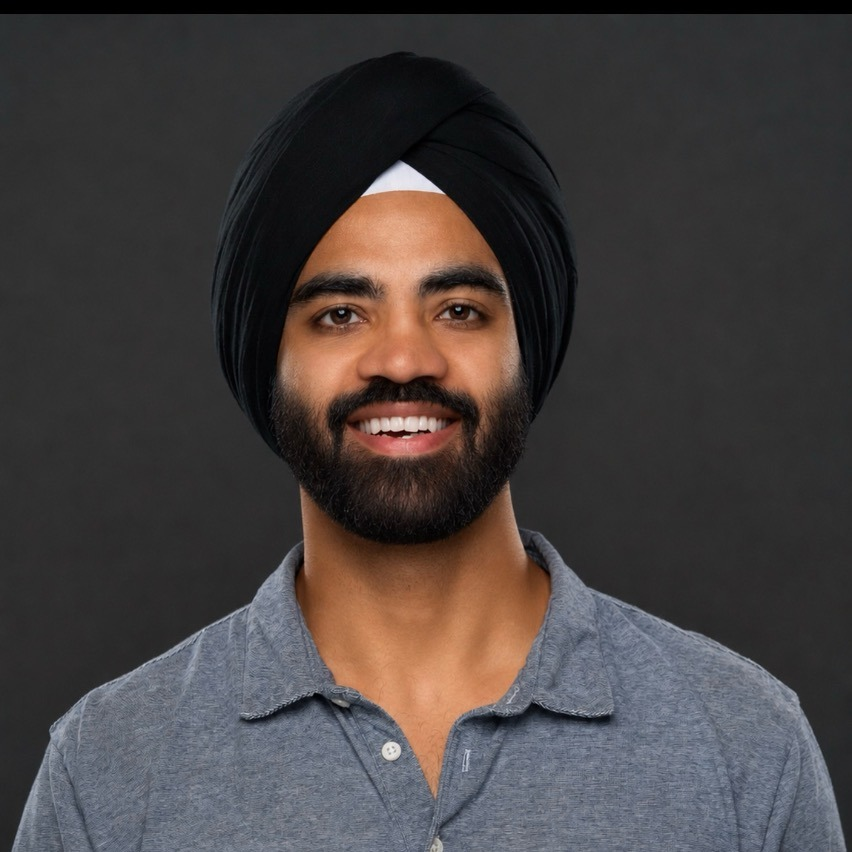
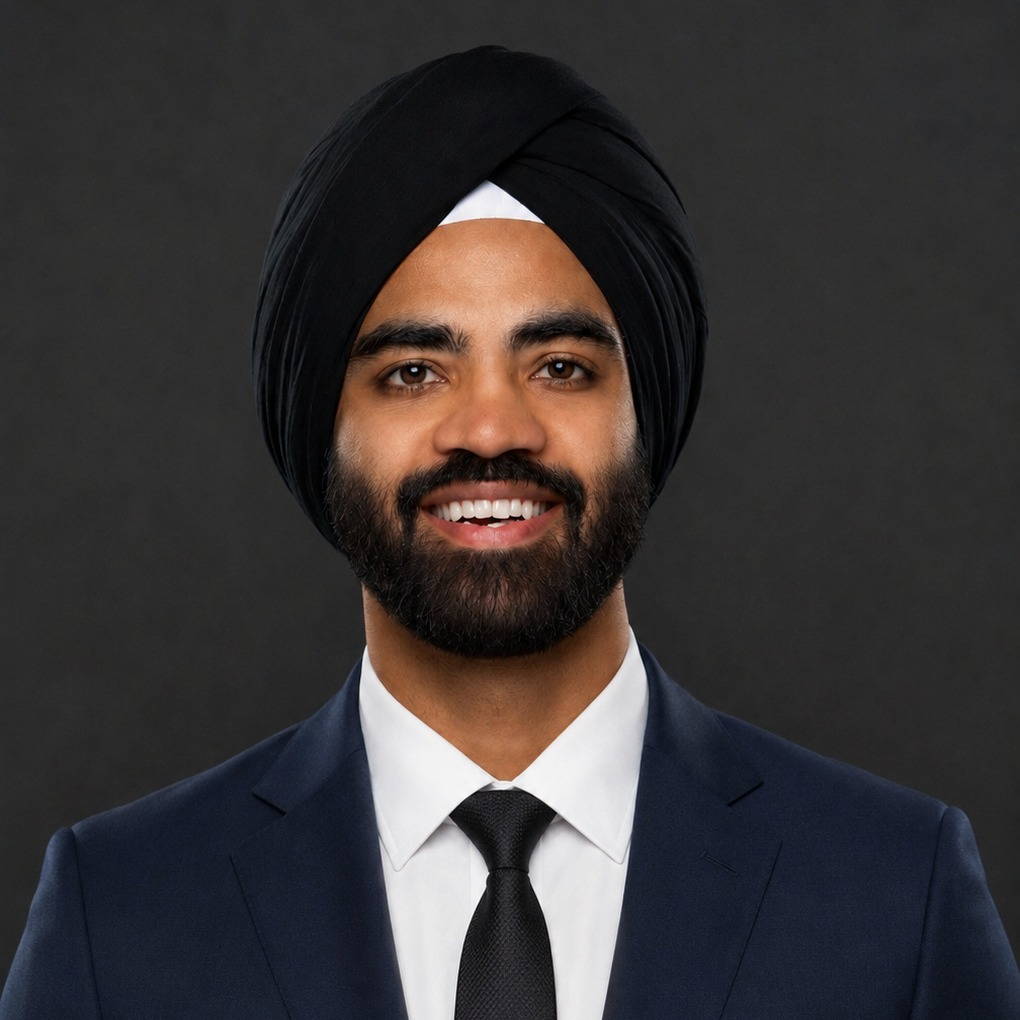
Add /evoicl + /icl topical pages (Virdi research + DOI/PubMed + cross-links to ICL Fit/ICL Info/IOL Reference); restore suit headshot; nav links

diff --git a/evoicl/index.html b/evoicl/index.html
@@ -1,0 +1,105 @@
+<!DOCTYPE html>
+<html lang="en">
+<head>
+    <meta charset="UTF-8">
+    <meta name="viewport" content="width=device-width, initial-scale=1.0">
+    <title>EVO ICL — Sizing, Vault &amp; Research | Gurpal Virdi, MD</title>
+    <meta name="description" content="EVO ICL (Implantable Collamer Lens) explained by Gurpal Virdi, MD — a San Francisco Bay Area refractive surgeon and ICL-sizing researcher. How the lens is sized, what vault is, the AI sizing agent ICL Fit, and peer-reviewed EVO ICL research.">
+    <meta name="keywords" content="EVO ICL, EVO+ ICL, Implantable Collamer Lens, ICL sizing, ICL vault, EVO ICL San Francisco, Bay Area ICL, Gurpal Virdi EVO ICL, AI ICL sizing, ICL Fit, VAULT-OCT">
+    <meta name="robots" content="index, follow, max-image-preview:large">
+    <link rel="canonical" href="https://gurpalvirdi.com/evoicl/">
+    <meta property="og:type" content="article">
+    <meta property="og:url" content="https://gurpalvirdi.com/evoicl/">
+    <meta property="og:title" content="EVO ICL — Sizing, Vault & Research | Gurpal Virdi, MD">
+    <meta property="og:description" content="EVO ICL explained by Gurpal Virdi, MD — sizing, vault, the AI sizing agent ICL Fit, and peer-reviewed research.">
+    <meta property="og:image" content="https://gurpalvirdi.com/og-image.jpg">
+    <link rel="icon" type="image/x-icon" href="/favicon.ico">
+    <link rel="preconnect" href="https://fonts.googleapis.com">
+    <link rel="preconnect" href="https://fonts.gstatic.com" crossorigin>
+    <link href="https://fonts.googleapis.com/css2?family=Fraunces:opsz,wght@9..144,400;9..144,500&family=Inter:wght@400;500;600&display=swap" rel="stylesheet">
+    <script type="application/ld+json">
+    {
+        "@context": "https://schema.org",
+        "@type": "MedicalWebPage",
+        "@id": "https://gurpalvirdi.com/evoicl/#webpage",
+        "url": "https://gurpalvirdi.com/evoicl/",
+        "name": "EVO ICL — Sizing, Vault & Research",
+        "description": "EVO ICL (Implantable Collamer Lens) explained by Gurpal Virdi, MD: sizing, vault, AI sizing with ICL Fit, and peer-reviewed research.",
+        "about": [
+            {"@type": "MedicalProcedure", "name": "EVO ICL implantation", "sameAs": "https://en.wikipedia.org/wiki/Implantable_collamer_lens"},
+            {"@type": "MedicalDevice", "name": "Implantable Collamer Lens"}
+        ],
+        "author": {"@type": "Physician", "@id": "https://gurpalvirdi.com/#gurpal-virdi", "name": "Gurpal Virdi, MD"},
+        "reviewedBy": {"@id": "https://gurpalvirdi.com/#gurpal-virdi"},
+        "isPartOf": {"@type": "WebSite", "url": "https://gurpalvirdi.com"},
+        "significantLink": [
+            "https://iclfit.com",
+            "https://iclsurgery.com",
+            "https://iclsurgery.com/research/"
+        ]
+    }
+    </script>
+    <style>
+        :root{--bg:#faf6f0;--ink:#25211c;--muted:#6b6459;--line:#e3dccf;--accent:#3f5540}
+        *{box-sizing:border-box}html{scroll-behavior:smooth}
+        body{margin:0;background:var(--bg);color:var(--ink);font-family:'Inter',-apple-system,sans-serif;font-size:17px;line-height:1.7}
+        a{color:var(--accent)}
+        .wrap{max-width:760px;margin:0 auto;padding:0 24px}
+        header.site{border-bottom:1px solid var(--line);background:rgba(250,246,240,.9);position:sticky;top:0}
+        header.site .wrap{max-width:1080px;display:flex;justify-content:space-between;align-items:center;height:62px}
+        .brand{font-family:'Fraunces',serif;font-size:18px;text-decoration:none;color:var(--ink)}
+        nav.top a{color:var(--muted);text-decoration:none;font-size:15px;margin-left:22px}
+        h1{font-family:'Fraunces',serif;font-weight:400;font-size:clamp(28px,4vw,40px);line-height:1.12;margin:40px 0 6px}
+        .sub{color:var(--muted);font-size:15px;margin:0 0 26px}
+        h2{font-family:'Fraunces',serif;font-weight:500;font-size:24px;margin:34px 0 10px}
+        p{margin:0 0 18px;color:#463f36}
+        .callout{background:#fff;border:1px solid var(--line);border-radius:14px;padding:20px 22px;margin:22px 0}
+        .callout strong{color:var(--ink)}
+        ul.pubs{list-style:none;padding:0;margin:14px 0}
+        ul.pubs li{padding:14px 0;border-top:1px solid var(--line)}
+        ul.pubs .t{font-weight:600;color:var(--ink)}
+        ul.pubs .j{color:var(--muted);font-size:14px;margin-top:2px}
+        ul.pubs .lk{font-size:14px;margin-top:6px}
+        ul.pubs .lk a{white-space:nowrap;margin-right:14px}
+        .btn{display:inline-block;background:var(--accent);color:#fff;text-decoration:none;padding:12px 24px;border-radius:999px;font-size:15px;font-weight:500;margin-top:8px}
+        .disc{color:var(--muted);font-size:13px;margin-top:30px}
+        footer.site{border-top:1px solid var(--line);margin-top:44px;padding:26px 0;color:var(--muted);font-size:14px}
+        footer.site a{color:var(--muted);text-decoration:none;margin-right:16px}
+    </style>
+</head>
+<body>
+    <header class="site"><div class="wrap"><a href="/" class="brand">Gurpal Virdi, MD</a>
+        <nav class="top"><a href="/icl/">ICL</a><a href="/evoicl/">EVO ICL</a><a href="/cv/">CV</a><a href="/#contact">Contact</a></nav></div></header>
+    <main class="wrap">
+        <h1>EVO ICL</h1>
+        <p class="sub">Sizing, vault, and the research — by Gurpal Virdi, MD · San Francisco Bay Area</p>
+
+        <p>The <a href="https://en.wikipedia.org/wiki/Implantable_collamer_lens" target="_blank" rel="noopener">EVO Implantable Collamer Lens (EVO ICL)</a> is a phakic intraocular lens placed between the iris and the eye's natural lens to correct myopia and astigmatism — without removing corneal tissue, and reversibly. It's often the better choice for higher prescriptions, thinner corneas, or dry-eye-prone eyes, where LASIK is less ideal.</p>
+        <p>I'm a refractive and cataract surgeon and an ICL-sizing researcher. The central technical challenge of EVO ICL surgery is <strong>choosing the right lens size</strong> for an individual eye — get it wrong and the lens vaults too high or too low. Most of my research and engineering work is aimed squarely at that problem.</p>
+
+        <h2>How EVO ICL is sized</h2>
+        <p>The lens comes in four sizes (12.1, 12.6, 13.2, 13.7 mm), and the same eye can vault very differently across them. Traditional sizing uses white-to-white corneal diameter — only a rough proxy for the internal anatomy where the lens actually rests. I co-founded and lead the engineering for <a href="https://iclfit.com" target="_blank" rel="noopener">ICL Fit</a>, the leading AI ICL-sizing agent, which predicts the best-fit size and post-op vault for each eye from anterior-segment imaging.</p>
+        <div class="callout"><strong>For patients:</strong> for a plain-language guide to EVO ICL — candidacy, recovery, risks, and choosing a surgeon — see <a href="https://iclsurgery.com" target="_blank" rel="noopener">ICLSurgery.com</a>, which I co-review.</div>
+
+        <h2>My EVO ICL research</h2>
+        <p>Peer-reviewed research I've co-authored on EVO ICL sizing, vault prediction, and outcomes:</p>
+        <ul class="pubs">
+            <li><span class="t">VAULT-OCT: Predicting ICL Postoperative Vault from AS-OCT Using Deep Learning</span><div class="j">Journal of Cataract &amp; Refractive Surgery (JCRS), 2025</div><div class="lk"><a href="https://doi.org/10.1097/j.jcrs.0000000000001743" target="_blank" rel="noopener">DOI</a><a href="https://pubmed.ncbi.nlm.nih.gov/40660493/" target="_blank" rel="noopener">PubMed</a></div></li>
+            <li><span class="t">VAULT: A Novel Image-Based AI Model for Predicting ICL Postoperative Vault</span><div class="j">Journal of Cataract &amp; Refractive Surgery (JCRS), 2024</div><div class="lk"><a href="https://doi.org/10.1097/j.jcrs.0000000000001386" target="_blank" rel="noopener">DOI</a><a href="https://pubmed.ncbi.nlm.nih.gov/38651696/" target="_blank" rel="noopener">PubMed</a></div></li>
+            <li><span class="t">ICL Exchanges or Explants Due to Sizing in a US High-Volume Center</span><div class="j">Clinical Ophthalmology, 2025</div><div class="lk"><a href="https://doi.org/10.2147/OPTH.S528280" target="_blank" rel="noopener">DOI</a><a href="https://pubmed.ncbi.nlm.nih.gov/40800717/" target="_blank" rel="noopener">PubMed</a><a href="https://pmc.ncbi.nlm.nih.gov/articles/PMC12341550/" target="_blank" rel="noopener">Full text</a></div></li>
+            <li><span class="t">Clinical Outcomes of ICL for Myopia in Eyes with ACD &lt; 3.0 mm</span><div class="j">Clinical Ophthalmology, 2025</div><div class="lk"><a href="https://doi.org/10.2147/OPTH.S528267" target="_blank" rel="noopener">DOI</a><a href="https://pubmed.ncbi.nlm.nih.gov/40584250/" target="_blank" rel="noopener">PubMed</a><a href="https://pmc.ncbi.nlm.nih.gov/articles/PMC12206414/" target="_blank" rel="noopener">Full text</a></div></li>
+            <li><span class="t">Accuracy of Reported Sizes of the EVO/EVO+ Visian ICL</span><div class="j">Cureus, 2025</div><div class="lk"><a href="https://doi.org/10.7759/cureus.90468" target="_blank" rel="noopener">DOI</a><a href="https://pubmed.ncbi.nlm.nih.gov/40978817/" target="_blank" rel="noopener">PubMed</a></div></li>
+            <li><span class="t">Dynamic Changes in ICL Vault and Angle Under Varying Lighting</span><div class="j">Clinical Ophthalmology, 2026</div><div class="lk"><a href="https://doi.org/10.2147/OPTH.S603534" target="_blank" rel="noopener">DOI</a><a href="https://pubmed.ncbi.nlm.nih.gov/42094804/" target="_blank" rel="noopener">PubMed</a></div></li>
+        </ul>
+        <p>More research, including the tools built from it, is on <a href="https://iclsurgery.com/research/" target="_blank" rel="noopener">ICLSurgery.com/research</a> and <a href="https://iclfit.com" target="_blank" rel="noopener">ICL Fit</a>.</p>
+
+        <p><a href="/#contact" class="btn">Get in touch</a></p>
+        <p class="disc">Educational information, not medical advice. Discuss your specific eyes with a qualified ophthalmologist.</p>
+    </main>
+    <footer class="site"><div class="wrap" style="max-width:1080px">© 2026 Gurpal Virdi, MD ·
+        <a href="/">Home</a><a href="/icl/">ICL</a><a href="/cv/">CV</a>
+        <a href="https://iclfit.com" target="_blank" rel="noopener">ICL Fit</a>
+        <a href="https://iclsurgery.com" target="_blank" rel="noopener">ICL Info</a>
+        <a href="https://iolreference.com" target="_blank" rel="noopener">IOL Reference</a></div></footer>
+</body>
+</html>

diff --git a/icl/index.html b/icl/index.html
@@ -1,0 +1,98 @@
+<!DOCTYPE html>
+<html lang="en">
+<head>
+    <meta charset="UTF-8">
+    <meta name="viewport" content="width=device-width, initial-scale=1.0">
+    <title>ICL (Implantable Collamer Lens) — Overview | Gurpal Virdi, MD</title>
+    <meta name="description" content="ICL (Implantable Collamer Lens) explained by Gurpal Virdi, MD — a San Francisco Bay Area refractive surgeon and ICL-sizing researcher. What an ICL is, who it's for, ICL vs LASIK, and how it's sized with AI.">
+    <meta name="keywords" content="ICL, Implantable Collamer Lens, ICL surgery, ICL vs LASIK, phakic IOL, ICL candidacy, ICL San Francisco, Bay Area ICL, Gurpal Virdi ICL, ICL sizing">
+    <meta name="robots" content="index, follow, max-image-preview:large">
+    <link rel="canonical" href="https://gurpalvirdi.com/icl/">
+    <meta property="og:type" content="article">
+    <meta property="og:url" content="https://gurpalvirdi.com/icl/">
+    <meta property="og:title" content="ICL (Implantable Collamer Lens) — Overview | Gurpal Virdi, MD">
+    <meta property="og:description" content="ICL explained by Gurpal Virdi, MD — what it is, who it's for, ICL vs LASIK, and how it's sized with AI.">
+    <meta property="og:image" content="https://gurpalvirdi.com/og-image.jpg">
+    <link rel="icon" type="image/x-icon" href="/favicon.ico">
+    <link rel="preconnect" href="https://fonts.googleapis.com">
+    <link rel="preconnect" href="https://fonts.gstatic.com" crossorigin>
+    <link href="https://fonts.googleapis.com/css2?family=Fraunces:opsz,wght@9..144,400;9..144,500&family=Inter:wght@400;500;600&display=swap" rel="stylesheet">
+    <script type="application/ld+json">
+    {
+        "@context": "https://schema.org",
+        "@type": "MedicalWebPage",
+        "@id": "https://gurpalvirdi.com/icl/#webpage",
+        "url": "https://gurpalvirdi.com/icl/",
+        "name": "ICL (Implantable Collamer Lens) — Overview",
+        "description": "ICL (Implantable Collamer Lens) explained by Gurpal Virdi, MD: what it is, who it's for, ICL vs LASIK, and AI sizing.",
+        "about": [
+            {"@type": "MedicalProcedure", "name": "Implantable Collamer Lens implantation", "sameAs": "https://en.wikipedia.org/wiki/Implantable_collamer_lens"},
+            {"@type": "MedicalDevice", "name": "Implantable Collamer Lens"}
+        ],
+        "author": {"@type": "Physician", "@id": "https://gurpalvirdi.com/#gurpal-virdi", "name": "Gurpal Virdi, MD"},
+        "reviewedBy": {"@id": "https://gurpalvirdi.com/#gurpal-virdi"},
+        "isPartOf": {"@type": "WebSite", "url": "https://gurpalvirdi.com"},
+        "significantLink": ["https://gurpalvirdi.com/evoicl/", "https://iclfit.com", "https://iclsurgery.com"],
+        "mainEntity": {
+            "@type": "FAQPage",
+            "mainEntity": [
+                {"@type": "Question", "name": "What is an ICL?", "acceptedAnswer": {"@type": "Answer", "text": "An ICL (Implantable Collamer Lens) is a phakic intraocular lens implanted between the iris and the natural crystalline lens to correct myopia and astigmatism. Unlike LASIK, it adds a lens rather than reshaping the cornea, and it is removable."}},
+                {"@type": "Question", "name": "ICL vs LASIK — which is better?", "acceptedAnswer": {"@type": "Answer", "text": "Neither is universally better; it depends on the eye. ICL is often preferred for higher prescriptions, thinner corneas, or dry-eye-prone eyes, while LASIK suits moderate prescriptions with fast recovery. Candidacy depends on the individual eye."}},
+                {"@type": "Question", "name": "Who is a candidate for an ICL?", "acceptedAnswer": {"@type": "Answer", "text": "Typical candidates are adults with myopia (and up to moderate astigmatism) who want vision correction, especially those with high prescriptions or corneas not ideal for laser surgery. A full eye exam determines candidacy."}}
+            ]
+        }
+    }
+    </script>
+    <style>
+        :root{--bg:#faf6f0;--ink:#25211c;--muted:#6b6459;--line:#e3dccf;--accent:#3f5540}
+        *{box-sizing:border-box}html{scroll-behavior:smooth}
+        body{margin:0;background:var(--bg);color:var(--ink);font-family:'Inter',-apple-system,sans-serif;font-size:17px;line-height:1.7}
+        a{color:var(--accent)}
+        .wrap{max-width:760px;margin:0 auto;padding:0 24px}
+        header.site{border-bottom:1px solid var(--line);background:rgba(250,246,240,.9);position:sticky;top:0}
+        header.site .wrap{max-width:1080px;display:flex;justify-content:space-between;align-items:center;height:62px}
+        .brand{font-family:'Fraunces',serif;font-size:18px;text-decoration:none;color:var(--ink)}
+        nav.top a{color:var(--muted);text-decoration:none;font-size:15px;margin-left:22px}
+        h1{font-family:'Fraunces',serif;font-weight:400;font-size:clamp(28px,4vw,40px);line-height:1.12;margin:40px 0 6px}
+        .sub{color:var(--muted);font-size:15px;margin:0 0 26px}
+        h2{font-family:'Fraunces',serif;font-weight:500;font-size:24px;margin:34px 0 10px}
+        p{margin:0 0 18px;color:#463f36}
+        .callout{background:#fff;border:1px solid var(--line);border-radius:14px;padding:20px 22px;margin:22px 0}
+        .callout strong{color:var(--ink)}
+        .btn{display:inline-block;background:var(--accent);color:#fff;text-decoration:none;padding:12px 24px;border-radius:999px;font-size:15px;font-weight:500;margin-top:8px}
+        .disc{color:var(--muted);font-size:13px;margin-top:30px}
+        footer.site{border-top:1px solid var(--line);margin-top:44px;padding:26px 0;color:var(--muted);font-size:14px}
+        footer.site a{color:var(--muted);text-decoration:none;margin-right:16px}
+    </style>
+</head>
+<body>
+    <header class="site"><div class="wrap"><a href="/" class="brand">Gurpal Virdi, MD</a>
+        <nav class="top"><a href="/icl/">ICL</a><a href="/evoicl/">EVO ICL</a><a href="/cv/">CV</a><a href="/#contact">Contact</a></nav></div></header>
+    <main class="wrap">
+        <h1>ICL — Implantable Collamer Lens</h1>
+        <p class="sub">An overview by Gurpal Virdi, MD · San Francisco Bay Area</p>
+
+        <p>An <a href="https://en.wikipedia.org/wiki/Implantable_collamer_lens" target="_blank" rel="noopener">ICL (Implantable Collamer Lens)</a> is a phakic intraocular lens — a thin, biocompatible lens implanted between the iris and your natural lens to correct nearsightedness and astigmatism. Unlike LASIK, it doesn't remove or reshape corneal tissue, and it can be removed. The current generation is the <a href="/evoicl/">EVO ICL</a>.</p>
+        <p>I'm a refractive and cataract surgeon whose research and engineering focus on ICL sizing — matching the right lens to each individual eye.</p>
+
+        <h2>ICL vs LASIK</h2>
+        <p>Neither is universally "safer" — it depends on your eye. ICL is often preferred for higher prescriptions, thinner corneas, or dry-eye-prone eyes; LASIK is common for moderate prescriptions with very fast recovery. The right choice comes from a careful evaluation, not a default.</p>
+
+        <h2>Who is a candidate?</h2>
+        <p>Typically adults with myopia (and up to moderate astigmatism), especially high prescriptions or corneas not ideal for laser surgery. A full eye exam — including anatomy and retina checks — determines candidacy.</p>
+
+        <h2>How an ICL is sized</h2>
+        <p>Sizing is the central technical challenge: the same eye can vault very differently across lens sizes. I co-founded and lead engineering for <a href="https://iclfit.com" target="_blank" rel="noopener">ICL Fit</a>, an AI agent that predicts the best-fit size and post-op vault for each eye. For the science and my peer-reviewed research, see the <a href="/evoicl/">EVO ICL page</a>.</p>
+
+        <div class="callout"><strong>For patients:</strong> a full plain-language ICL guide — candidacy, recovery, risks, choosing a surgeon — is at <a href="https://iclsurgery.com" target="_blank" rel="noopener">ICLSurgery.com</a>, which I co-review.</div>
+
+        <p><a href="/#contact" class="btn">Get in touch</a></p>
+        <p class="disc">Educational information, not medical advice. Discuss your specific eyes with a qualified ophthalmologist.</p>
+    </main>
+    <footer class="site"><div class="wrap" style="max-width:1080px">© 2026 Gurpal Virdi, MD ·
+        <a href="/">Home</a><a href="/evoicl/">EVO ICL</a><a href="/cv/">CV</a>
+        <a href="https://iclfit.com" target="_blank" rel="noopener">ICL Fit</a>
+        <a href="https://iclsurgery.com" target="_blank" rel="noopener">ICL Info</a>
+        <a href="https://iolreference.com" target="_blank" rel="noopener">IOL Reference</a></div></footer>
+</body>
+</html>

diff --git a/index.html b/index.html
@@ -205,7 +205,8 @@
             <a href="/" class="brand">Gurpal Virdi, MD</a>
             <nav class="top">
                 <a href="#about">About</a>
-                <a href="#work">Research &amp; ICL Fit</a>
+                <a href="/evoicl/">EVO ICL</a>
+                <a href="/icl/">ICL</a>
                 <a href="/cv/">CV</a>
                 <a href="#contact">Contact</a>
             </nav>